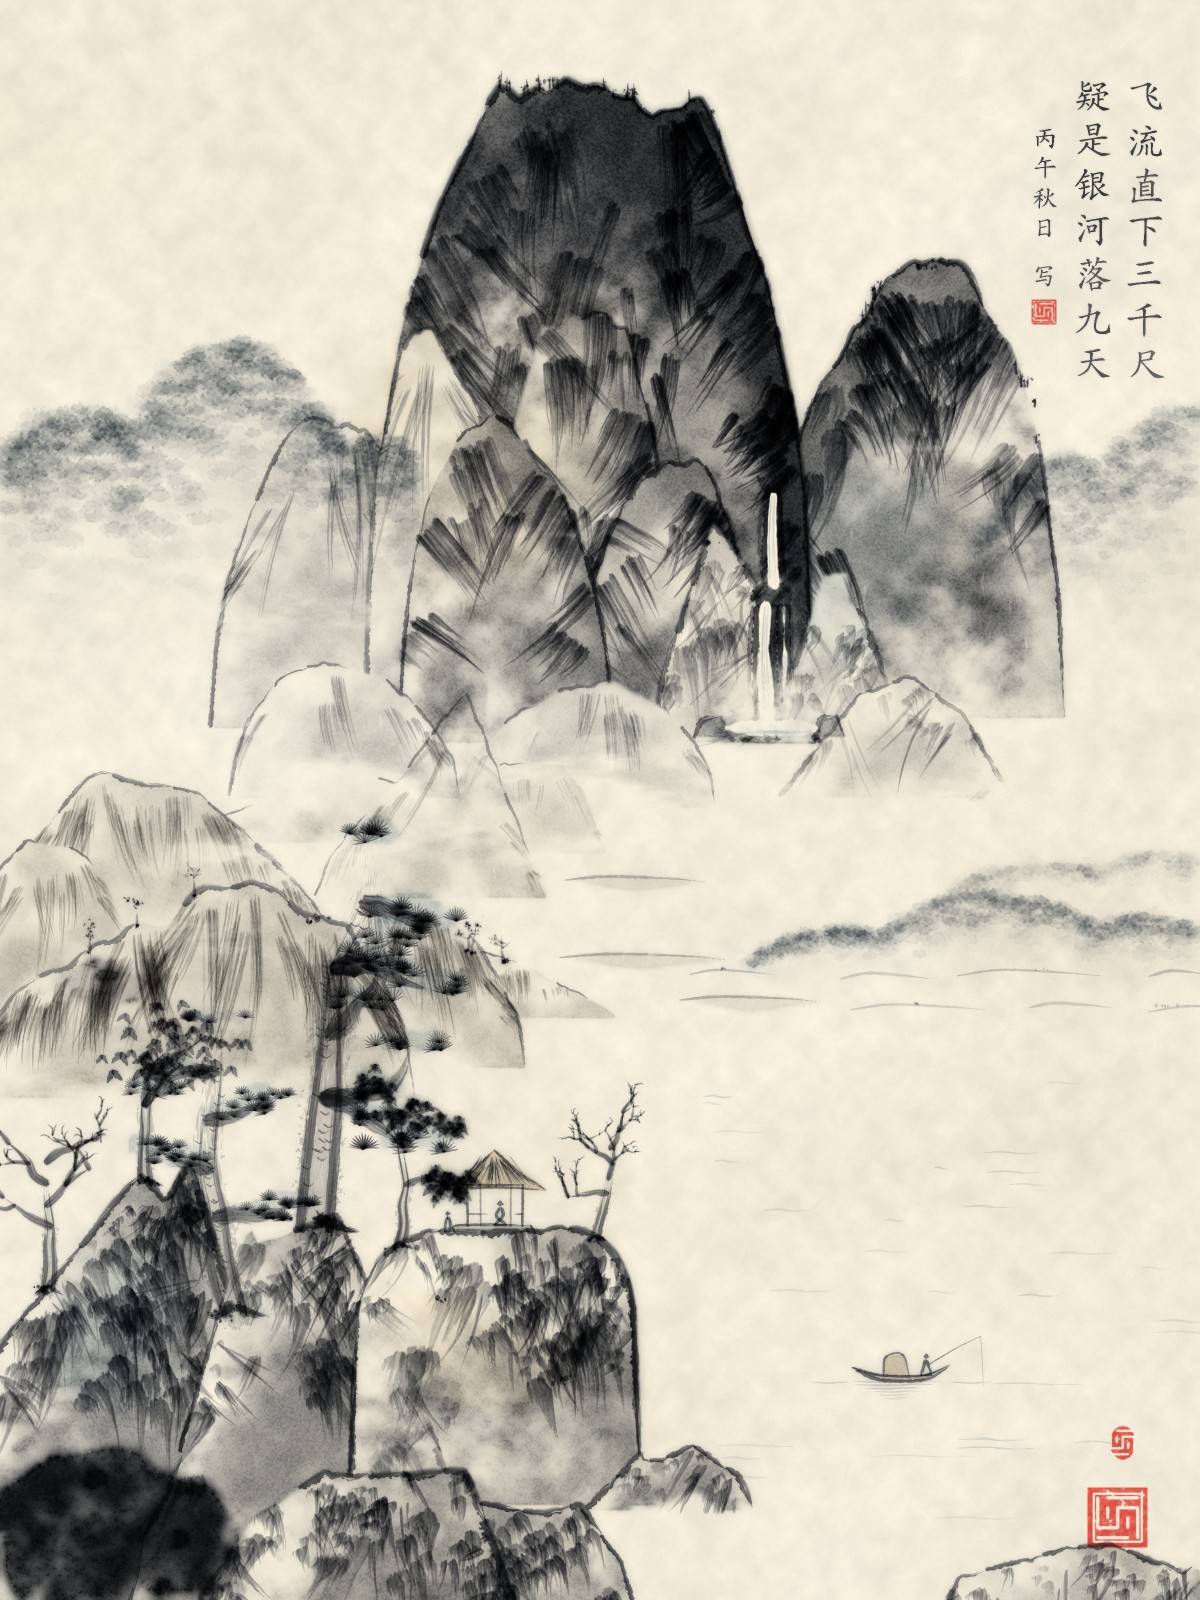
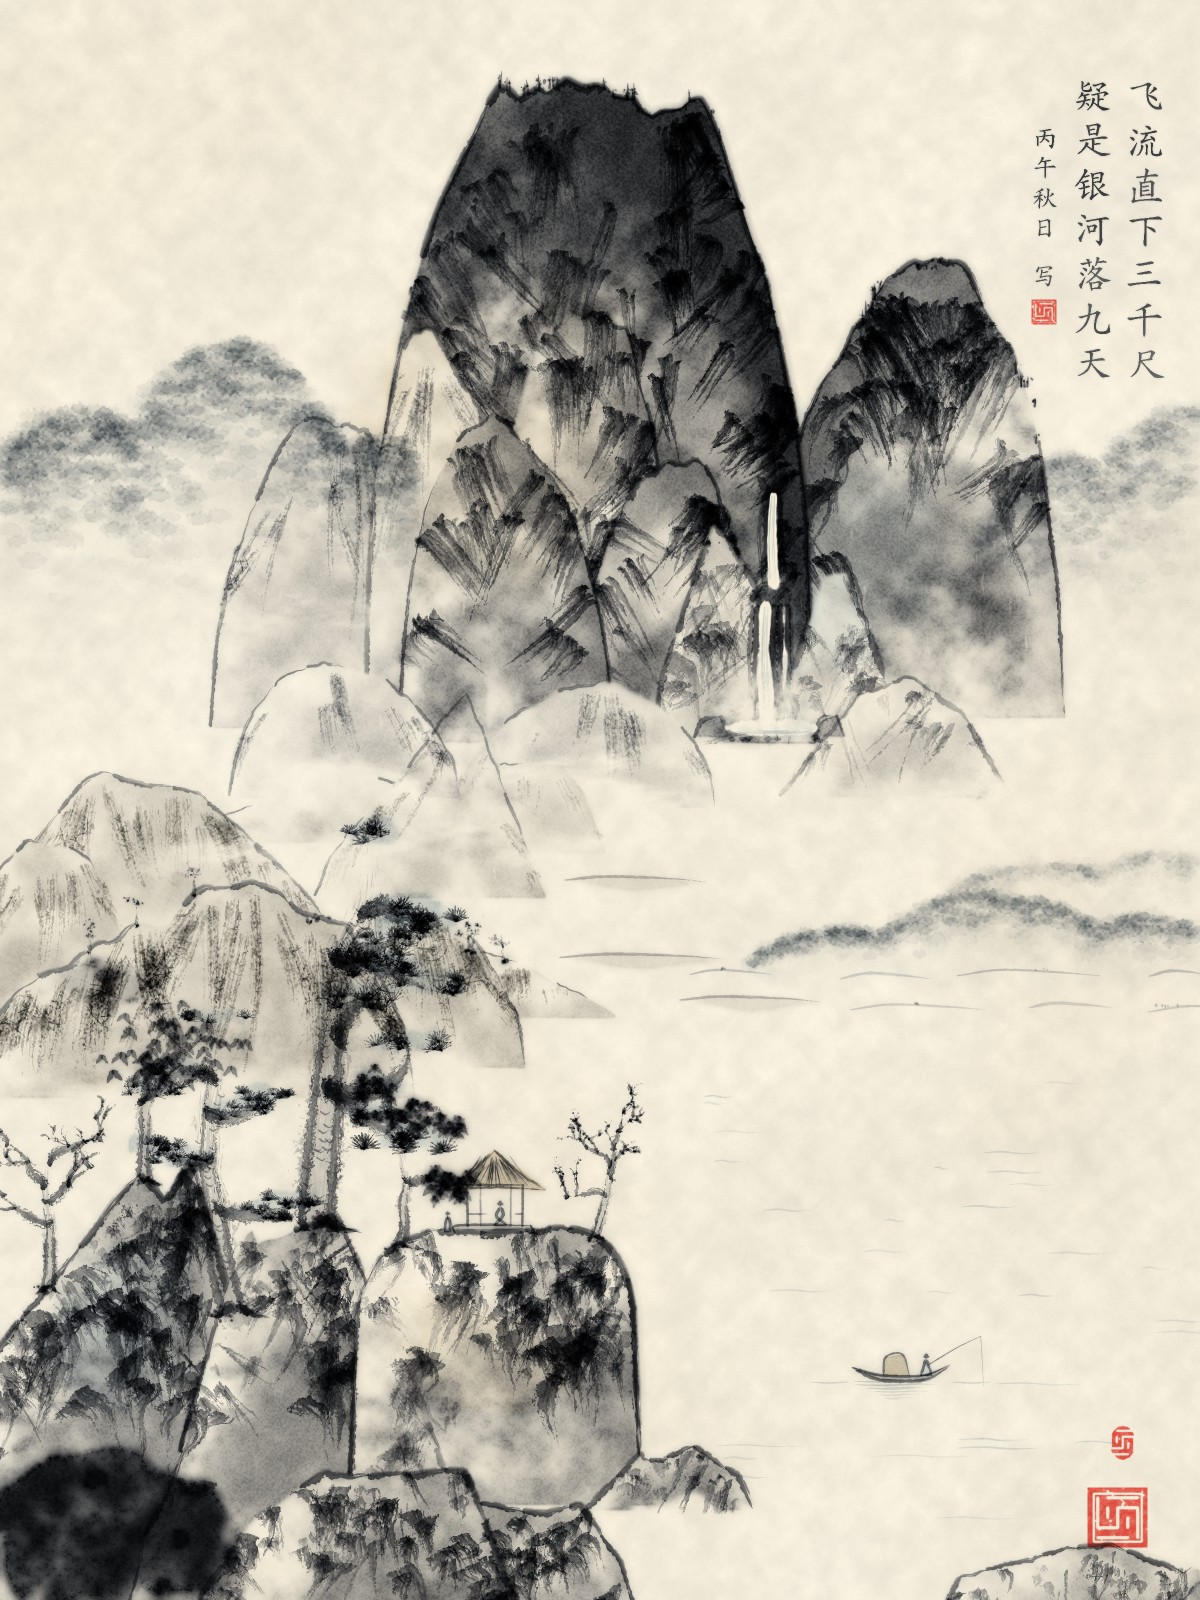
Roughen the bristle brush so ink sits in the paper.
Wet strokes feather along fibre ridges with a darker rim; dry strokes break into scratches. Keep the classic stroke as the default, and keep side-tip streaks, flying white, ink depletion, and turn splay.

diff --git a/inkwash-engine/inkwash/brush2.py b/inkwash-engine/inkwash/brush2.py
@@ -52,14 +52,14 @@ def smooth1d(x, sig):
 
 
 ENTRY = {  # (start_w, ramp, cap, pool)   cap: 0 尖 / 1 圆头
-    'cang': (0.85, 0.10, 1.0, 0.55),    # 藏锋：逆入回转，圆钝饱满，起笔略重
+    'cang': (0.94, 0.11, 0.62, 0.75),   # 藏锋：逆入，钝跟而不是正圆头，起笔积墨
     'lu': (0.08, 0.16, 0.0, 0.0),       # 露锋：尖入，斜切
     None: (None, None, 0.35, 0.15),
 }
 EXIT = {   # (end_w, ramp, cap, pool, swell)
-    'hui': (0.75, 0.10, 1.0, 0.5, 1.0),   # 回锋：收笔回转，圆钝
-    'tip': (0.03, 0.38, 0.0, 0.0, 1.0),   # 出锋：笔毛收拢成尖
-    'dun': (1.0, 0.14, 1.35, 0.9, 1.28),   # 顿笔：收笔按下，略鼓、积墨
+    'hui': (0.80, 0.13, 0.78, 0.62, 1.10),  # 回锋：收笔回转，略鼓、不收尖
+    'tip': (0.03, 0.38, 0.0, 0.0, 1.0),     # 出锋：笔毛收拢成尖
+    'dun': (0.55, 0.11, 0.42, 1.45, 2.05),  # 顿笔：短促按下成结，末端略提
     None: (None, None, 0.25, 0.1, 1.0),
 }
 
@@ -83,12 +83,19 @@ def width_profile(u, s, w, rng, entry, exit, taper, start_w, end_w, wobble, pres
         prof = np.where(u < a, sw + (1 - sw) * np.sin(0.5 * np.pi * np.clip(u / a, 0, 1)), prof)
     if r > 0:
         t = np.clip((1 - u) / r, 0, 1)
-        if swell > 1:
+        if exit == 'dun':
+            # 顿笔：收笔前按下成结，末端略提，避免收成圆棒
+            x = 1.0 - t
+            hump = np.sin(np.pi * np.clip(x / 0.74, 0, 1)) ** 0.85
+            lift = np.clip((x - 0.58) / 0.42, 0, 1) ** 1.15
+            prof = prof * np.where(u > 1 - r, (1 + (swell - 1) * hump) * (1 - 0.42 * lift), 1.0)
+        elif swell > 1:
             prof = prof * np.where(u > 1 - r, 1 + (swell - 1) * np.sin(np.pi * 0.5 * (1 - t)) ** 1.5, 1.0)
         else:
             prof = prof * np.where(u > 1 - r, ew + (1 - ew) * t ** 0.75, 1.0)
     p = _resolve(pressure, u)
-    prof = prof * np.maximum(p, 0.05) ** 0.8
+    # 提按：压力对半宽更敏感，竖画的粗细才读得出来（p=0.85→约 0.82，p=1.25→约 1.31）
+    prof = prof * np.maximum(p, 0.05) ** 1.28
     if wobble > 0:
         prof = prof * (1 + wobble * (noise1d(len(u), max(8, 40 / step), rng) - 0.5) * 2)
     pool = np.zeros_like(u)
@@ -131,6 +138,31 @@ def make_bristles(nb, tip, rng, load, rough, bristle):
     return dict(o=o, load0=load0, rate=rate, jit=jit, thr=thr, cid=cid, nc=nc)
 
 
+def _gesture(P, s, nrm, W, L, w, entry, exit, wobble, tip, rng):
+    """藏锋/回锋的侧向回转、顿笔笔肚偏压，以及沿法向的轻微手抖。位移相对笔宽很小。"""
+    d = np.zeros_like(P)
+    side = 1.0 if rng.random() < 0.5 else -1.0
+    if entry == 'cang':
+        sig = max(0.95 * w, 5.0)
+        bell = np.exp(-0.5 * ((s + 0.40 * w) / sig) ** 2)
+        d += nrm * (side * 1.25 * float(W[0]) * bell)[:, None]
+    if exit == 'hui':
+        sig = max(0.90 * w, 5.0)
+        bell = np.exp(-0.5 * ((s - (L + 0.15 * w)) / sig) ** 2)
+        d += nrm * (-side * 1.20 * float(W[-1]) * bell)[:, None]
+    if exit == 'dun':
+        sig = max(0.55 * w, 3.5)
+        bell = np.exp(-0.5 * ((s - (L - 0.02 * w)) / sig) ** 2)
+        d += nrm * (side * 0.38 * w * bell)[:, None]
+    if wobble > 0 and len(s) > 4:
+        cell = max(18.0, 0.22 * max(L, 1.0))
+        trem = (noise1d(len(s), cell, rng) - 0.5) * 2.0
+        trem2 = (noise1d(len(s), max(8.0, cell * 0.38), rng) - 0.5) * 2.0
+        amp = wobble * max(w, 1.0) * (1.15 if tip == 'zhong' else 0.42)
+        d += nrm * ((amp * trem + 0.35 * amp * trem2))[:, None]
+    return P + d
+
+
 def bristle_stroke(layer, pts, w, ink=0.85, pig=None, t0=0.0, dur=0.6, tip='zhong', load=1.0, dry=0.15, wet=0.5,
                    pressure=None, entry=None, exit=None, pauses=(), splay=0.35, skew=None, nb=None, bleed=None,
                    taper=(0.12, 0.35), start_w=0.45, end_w=0.05, rough=0.22, wobble=0.10, step=None, bristle=1.0,
@@ -168,6 +200,8 @@ def bristle_stroke(layer, pts, w, ink=0.85, pig=None, t0=0.0, dur=0.6, tip='zhon
     ext = lambda a: np.r_[np.full(n0, a[0]), a, np.full(n1, a[-1])]  # noqa: E731
     capd = np.r_[e0, np.zeros(len(s)), e1]                     # distance beyond the path end
     s, u, W, pl, p, kap = np.r_[-e0, s, L + e1], ext(u), ext(W), ext(pl), ext(p), ext(kap)
+    # 回转加在含笔头的整条路径上，藏锋/回锋的帽才跟着偏，而不是在直线帽之后才拐
+    P = _gesture(P, s, nrm, W, L, w, entry, exit, wobble, tip, rng)
     M = len(s)
     # ---- bristles
     if nb is None:
@@ -184,8 +218,21 @@ def bristle_stroke(layer, pts, w, ink=0.85, pig=None, t0=0.0, dur=0.6, tip='zhon
     gap = rng.normal(0, 1, (nb, 1)) * spl[None, :] * 0.4 * outer
     wander = (0.7 * K.noise_rows(nc, s, rng.uniform(25, 70, nc), rng)[cid]
               + 0.3 * K.noise_rows(nb, s, rng.uniform(15, 40, nb), rng) - 0.5) * 2
-    wj = 1 + 0.07 * (2 * K.noise_rows(nc, s, rng.uniform(15, 45, nc), rng)[cid] - 1)    # per-clump width jitter
-    off = W[None, :] * (o * fan * wj + gap + B['jit'][:, None] * 0.4 * wander)
+    # 每根毛的径向到达不同：外缘毛有的探出、有的够不着，轮廓不是一条矢量线
+    reach = rng.uniform(0.76, 1.24, (nb, 1))
+    abs_o = np.abs(B['o'])
+    jscale = (0.20 + 0.22 * min(dry, 1.15)) * (1.0 - 0.32 * min(wet, 1.0))
+    wj = np.clip(1 + jscale * (0.30 + 0.70 * abs_o)[:, None]
+                 * (2 * K.noise_rows(nc, s, rng.uniform(10, 32, nc), rng)[cid] - 1), 0.64, 1.42)
+    # 纤维尺度的边缘毛刺。侧锋只让笔肚一侧毛，笔尖侧保持较齐
+    chatter = (K.noise_rows(nb, s, rng.uniform(2.6, 6.0, nb), rng) - 0.5) * 2
+    if tip == 'ce':
+        fringe = np.clip((B['o'] + 0.05) / 1.05, 0, 1)
+    else:
+        fringe = np.clip((abs_o - 0.12) / 0.88, 0, 1)
+    poke_amp = (0.40 + 0.32 * min(dry, 1.15)) * (1.0 - 0.40 * min(wet, 1.0))
+    poke = np.clip(np.sign(B['o'])[:, None] * fringe[:, None] * poke_amp * chatter, -0.46, 0.46)
+    off = W[None, :] * (o * reach * fan * wj + gap + B['jit'][:, None] * 0.4 * wander + poke)
     al = o * W[None, :] * skew
     X = P[None, :, 0] + nrm[None, :, 0] * off + tan[None, :, 0] * al
     Y = P[None, :, 1] + nrm[None, :, 1] * off + tan[None, :, 1] * al
@@ -200,7 +247,13 @@ def bristle_stroke(layer, pts, w, ink=0.85, pig=None, t0=0.0, dur=0.6, tip='zhon
         + (K.noise_rows(nb, s, rng.uniform(16, 40, nb), rng) - 0.5) * 0.12
     act = smoothstep(B['thr'][:, None] - 0.04, B['thr'][:, None] + 0.04, r + skip * min(1.0, 0.3 + dry))
     # ---- ends: cap shape (round heads) + staggered bristle ends for 出锋 / 露锋
-    ecap = np.sqrt(np.clip(1 - o * o, 0, 1)) * (0.8 + 0.25 * rng.random((nb, 1))) * rng.uniform(0.7, 1.3, nc)[cid][:, None]
+    ecap = np.sqrt(np.clip(1 - o * o, 0, 1)) * (0.55 + 0.7 * rng.random((nb, 1))) * rng.uniform(0.7, 1.35, nc)[cid][:, None]
+    if entry == 'cang':
+        ecap = (0.78 + 0.28 * rng.random((nb, 1))) * (1.0 - 0.22 * o * o)   # 钝跟，少出飞丝
+    if exit == 'hui':
+        ecap = (0.70 + 0.40 * rng.random((nb, 1))) * (1.0 - 0.18 * o * o)
+    if exit == 'dun':
+        ecap = (0.55 + 0.55 * rng.random((nb, 1))) * (1.0 - 0.12 * np.abs(o))
     lim0, lim1 = ecap * ce0, ecap * ce1
     act = act * (np.where(capd[None, :] > 0, (np.arange(M) < n0)[None, :] * (capd[None, :] <= lim0)
                           + (np.arange(M) >= M - n1)[None, :] * (capd[None, :] <= lim1), 1.0))
@@ -209,15 +262,68 @@ def bristle_stroke(layer, pts, w, ink=0.85, pig=None, t0=0.0, dur=0.6, tip='zhon
         act = act * (s[None, :] <= cut)
     if entry == 'lu':
         act = act * (s[None, :] >= (o + 1) * 0.5 * 0.35 * ENTRY['lu'][1] * L)
-    a = act * (2 * W[None, :] / nb) * st * rng.uniform(0.7, 1.3, (nb, 1))     # hair thickness
+    # 外缘毛更细、粗细差更大；湿笔少收一点，好让渗化把它们连成羽边
+    thick = rng.uniform(0.38, 1.55, (nb, 1)) * (1.18 - 0.62 * np.abs(o) * (0.30 + 0.70 * min(dry, 1.15)))
+    a = act * (2 * W[None, :] / nb) * st * thick
+    dotish = L < max(2.8 * w, 16.0)
+    fray = 1.0
+    if dotish:
+        # 点：半径差很大，外缘毛有的缺、有的甩出去，不再是椭圆
+        rad = rng.uniform(0.40, 1.58, (nb, 1))
+        rad = np.where(rng.random((nb, 1)) < 0.16, rad * 1.45, rad)
+        off = off * rad + rng.normal(0, 0.20 * max(w, 1.0), (nb, 1))
+        al = al * rng.uniform(0.45, 1.45, (nb, 1)) + rng.normal(0, 0.26 * max(w, 1.0), (nb, 1))
+        r = r * rng.uniform(0.62, 1.28, (nb, 1))
+        rim = np.abs(o) > 0.50
+        a = a * np.where(rim, rng.uniform(0.12, 1.05, (nb, 1)), 1.0)
+        X = P[None, :, 0] + nrm[None, :, 0] * off + tan[None, :, 0] * al
+        Y = P[None, :, 1] + nrm[None, :, 1] * off + tan[None, :, 1] * al
+        fray = 1.7
+        if bleed is None:
+            bleed = int(min(14, 6 + 0.45 * w))
     # streak tone: each clump carries a little more / less ink along long stretches -> 笔向丝理
     amp = (0.10 + 0.22 * dry) * min(bristle, 2.0) * (1 - 0.55 * min(wet, 1.0))
     stk = 1 + amp * (2 * K.noise_rows(nc, s, rng.uniform(40, 140, nc), rng)[cid] - 1) \
         + 0.5 * amp * (2 * K.noise_rows(nb, s, rng.uniform(20, 60, nb), rng) - 1)
-    return _deposit(layer, X, Y, a, r, u, pl, ink, pig, wet, dry, pool, bleed, t0, dur, ease, w, rng, stk, rough)
+    return _deposit(layer, X, Y, a, r, u, pl, ink, pig, wet, dry, pool, bleed, t0, dur, ease, w, rng, stk, rough, tip, fray)
 
 
-def _deposit(layer, X, Y, a, r, u, pl, ink, pig, wet, dry, pool, bleed, t0, dur, ease, w, rng, stk, rough):
+def _edge_warp(C, Q, U, PL, SK, fib, ne, gr, wet, dry, rough, tip, fray=1.0):
+    """把墨芯轮廓沿法线挪开：干笔咬进纸谷，湿笔顺纤维探出，再叠加高频齿。
+
+    只动外轮廓（邻域平均墨量低的地方），飞白丝留在芯里不被抹掉。
+    d>0 表示向纸面外长（采样点朝墨芯）。"""
+    import cv2
+    gx = cv2.Sobel(C, cv2.CV_32F, 1, 0, ksize=3)
+    gy = cv2.Sobel(C, cv2.CV_32F, 0, 1, ksize=3)
+    gmag = np.sqrt(gx * gx + gy * gy)
+    scale = float(np.percentile(gmag, 90)) + 1e-6
+    edgew = np.clip(gmag / scale, 0, 1)
+    inx = gx / (gmag + 1e-6)
+    iny = gy / (gmag + 1e-6)
+    local = cv2.GaussianBlur(C, (0, 0), 2.2)
+    shell = np.clip(1.15 - local / (float(np.percentile(local, 88)) + 1e-6), 0, 1)
+    k = (0.50 if tip == 'ce' else 1.0) * fray
+    ridge = np.clip(fib - 0.37, 0, 0.22)
+    valley = np.clip(0.40 - fib, 0, 0.22)
+    d = k * (
+        (6.8 + 3.2 * min(dry, 1.1)) * ne * (0.65 + 0.8 * rough)
+        + (1.6 + 9.0 * min(wet, 1.2)) * ridge * 14.0
+        - (2.2 + 9.5 * min(dry, 1.1)) * (1.0 - 0.50 * min(wet, 1.0)) * valley * 12.0
+        + (0.8 + 2.2 * min(wet, 1.0)) * (gr - 0.5) * 3.0
+    )
+    d = np.clip(d, -6.0 - 5.0 * min(dry, 1.0), 3.5 + 9.0 * min(wet, 1.2))
+    d = d * edgew * (0.20 + 0.80 * shell)
+    h, wd = C.shape
+    yy, xx = np.mgrid[0:h, 0:wd].astype(np.float32)
+    mapx = np.clip(xx + inx * d, 0, wd - 1).astype(np.float32)
+    mapy = np.clip(yy + iny * d, 0, h - 1).astype(np.float32)
+    def warp(img):
+        return cv2.remap(img, mapx, mapy, cv2.INTER_LINEAR, borderMode=cv2.BORDER_CONSTANT)
+    return [warp(f) for f in (C, Q, U, PL, SK)]
+
+
+def _deposit(layer, X, Y, a, r, u, pl, ink, pig, wet, dry, pool, bleed, t0, dur, ease, w, rng, stk, rough, tip='zhong', fray=1.0):
     """splat 笔毛 -> 覆盖/墨色/纸纹门限/湿边/渗化 -> 写入 layer.A / Wet / T。"""
     import cv2
     from . import brush2_ink as K
@@ -226,8 +332,9 @@ def _deposit(layer, X, Y, a, r, u, pl, ink, pig, wet, dry, pool, bleed, t0, dur,
     keep = a > 1e-5
     if not keep.any():
         return
-    sig = 0.45 + 0.018 * w + 0.25 * wet
-    it = int(round(bleed if bleed is not None else min(12 * wet ** 1.1, 1 + 1.0 * w)))
+    # 少模糊：边缘的毛刺要留下来。湿笔的羽化交给 capillary，不靠大 sigma 涂匀
+    sig = 0.30 + 0.008 * w + 0.05 * min(float(wet), 1.0)
+    it = int(round(bleed if bleed is not None else min(8.0 * wet ** 1.05 + 1.2 * wet, 2.0 + 0.55 * w)))
     pad = int(3 * sig + it + 3)
     xs, ys = X[keep], Y[keep]
     x0 = int(max(0, math.floor(xs.min()) - pad))
@@ -246,29 +353,47 @@ def _deposit(layer, X, Y, a, r, u, pl, ink, pig, wet, dry, pool, bleed, t0, dur,
     C, Q, U, PL, SK = [cv2.GaussianBlur(f, (0, 0), sig) for f in (C, Q, U, PL, SK)]
     fib = cv.fiber[y0:y1, x0:x1]
     gr = np.clip(0.5 + 0.35 * cv.nz_gran[y0:y1, x0:x1], 0, 1)
-    cov = 1 - np.exp(-2.2 * C)
-    # edge meets paper: threshold soft coverage against fibre + edge noise -> crisp but fibre-ragged rim
     ne = cv.nz_edge[y0:y1, x0:x1]
-    cov = cov * smoothstep(0.1, 0.45, cov + 0.32 * (fib - 0.5) + 0.2 * ne * (0.5 + rough))
-    rim = np.clip(1 - cov, 0, 1) * (cov > 0.02)
-    cov = cov * (1 - dry * 0.45 * rim ** 1.5 * smoothstep(0.45, 0.75, gr + 0.25 * (fib - 0.5)))   # scratchy dry rim
+    if float(C.max()) > 1e-4:
+        C, Q, U, PL, SK = _edge_warp(C, Q, U, PL, SK, fib, ne, gr, wet, dry, rough, tip, fray)
+    cov0 = 1 - np.exp(-2.35 * C)
+    # 轮廓本身已经按纸纹挪开，这里收成较利的墨芯，好让齿留在深色边上
+    lo = 0.10 + 0.10 * min(dry, 1.0) - 0.04 * min(wet, 1.0)
+    hi = lo + 0.16 + 0.06 * min(dry, 1.0)
+    cov = smoothstep(lo, max(hi, lo + 0.12), cov0)
+    # 干笔：纸谷再啃掉一圈，边沿成擦痕
+    if dry > 0.12:
+        contact = smoothstep(0.30, 0.70, 0.55 * fib + 0.45 * gr)
+        edge_band = smoothstep(0.04, 0.22, cov) * (1.0 - smoothstep(0.55, 0.92, cov))
+        kill = min(dry, 1.2) * (1.0 - 0.65 * min(wet, 1.0)) * edge_band * (1.0 - contact)
+        cov = cov * (1.0 - 0.85 * kill)
     rm = Q / (C + 1e-6)
     pm = PL / (C + 1e-6)
     # dry bristles only touch the high points of the paper (fibres + grain) -> broken, grain-aligned 飞白
     g = 0.55 * fib + 0.45 * gr
-    gate = smoothstep(0.0, 0.3, rm * 1.25 - 0.18 * (1 - g) * (0.3 + dry))
-    tone = ink * (0.5 + 0.5 * np.clip(rm, 0, 1.4)) * (1 + 0.38 * pm) * (SK / (C + 1e-6))
-    gamp = 0.05 + 0.07 * min(wet, 1.0)                    # ink granulation, stronger in wet/pale ink
-    dens = cov * gate * tone * (0.84 + 0.32 * fib) * (1 - gamp + 2 * gamp * gr)
-    if pool * wet > 0:      # wet ink is pushed to the rim while drying -> slightly darker edge line
-        e = np.clip(cov - cv2.GaussianBlur(cov, (0, 0), 1.6 + 0.12 * w), 0, None)
-        dens = dens + ink * pool * wet * 2.6 * e * gate * (0.7 + 0.6 * fib)
-    wm = cov * gate * np.clip(rm, 0, 1.5) * wet * (1 + pm)
+    gate = smoothstep(0.0, 0.28, rm * 1.15 - 0.22 * (1 - g) * (0.25 + dry))
+    tone = ink * (0.50 + 0.50 * np.clip(rm, 0, 1.4)) * (1 + 0.95 * np.clip(pm, 0, 1.5)) * (SK / (C + 1e-6))
+    # 颗粒：淡墨、湿墨里色素结块；焦墨只留一点齿。用未裁剪的颗粒场，结块约 2px
+    pale = float(np.clip(1.20 - 0.42 * min(float(ink), 1.35), 0.45, 1.35))
+    gamp = (0.08 + 0.50 * min(wet, 1.15)) * pale
+    raw = cv2.GaussianBlur(cv.nz_gran[y0:y1, x0:x1], (0, 0), 0.8)
+    speck = np.clip(0.42 + 0.62 * raw, 0.08, 1.85)
+    dens = cov * gate * tone * (0.74 + 0.52 * fib) * ((1.0 - gamp) + gamp * speck)
+    if wet > 0.18:
+        mid = np.clip(cv.nz_mid[y0:y1, x0:x1], -1.3, 1.3)
+        dens = dens * (1.0 + (0.045 + 0.11 * min(wet, 1.0)) * mid)
+    if pool * wet > 0:      # 湿墨干后把颜料推到轮廓上，边线比芯深
+        e = np.clip(cov - cv2.GaussianBlur(cov, (0, 0), 1.05 + 0.05 * w), 0, None)
+        dens = dens + ink * pool * (0.55 + 1.25 * min(wet, 1.2)) * e * gate * (0.60 + 0.75 * fib)
+    wm = cov * gate * np.clip(rm, 0, 1.5) * wet * (1 + 0.65 * pm)
     halo = None
-    if it > 0:
-        sp = K.capillary(wm, fib, gr, it, reach=0.92 + 0.1 * min(wet, 1.0))
+    if it > 0 and wet > 0.04:
+        reach = max(0.28, 0.58 + 0.55 * min(wet, 1.25) - 0.22 * min(dry, 1.0))
+        sp = K.capillary(wm, fib, gr, it, reach=reach)
         halo = np.clip(sp - wm, 0, None)
-        dens = dens + halo * ink * 1.25 * min(1.0, 0.15 + w / 10) * (0.4 + 1.2 * fib)
+        dens = dens + halo * ink * (1.55 + 1.15 * min(wet, 1.0)) * np.clip(fib - 0.30, 0.05, 1.0)
+        tide = np.clip(halo - cv2.GaussianBlur(halo, (0, 0), 0.95), 0, None)
+        dens = dens + ink * max(pool, 0.25) * min(wet, 1.2) * 2.6 * tide * (0.45 + fib)
     dens = dens.astype(np.float32)
     um = U / (C + 1e-6)
     if halo is not None:

diff --git a/inkwash-engine/inkwash/brush2_ink.py b/inkwash-engine/inkwash/brush2_ink.py
@@ -41,13 +41,25 @@ def splat(h, w, xs, ys, weights):
 _K = cv2.getStructuringElement(cv2.MORPH_ELLIPSE, (3, 3))
 
 
+def _smoothstep(e0, e1, x):
+    t = np.clip((x - e0) / (e1 - e0 + 1e-9), 0.0, 1.0)
+    return t * t * (3.0 - 2.0 * t)
+
+
 def capillary(wm, fiber, gran, iters, reach=1.0):
-    """毛细渗化：湿墨沿纸纤维向外爬。每步 3x3 膨胀，再乘以由纤维图决定的传导率(纤维亮处导得远)。
-    返回渗出场 (>=wm)。"""
+    """毛细渗化：湿墨只沿偏亮的纸纤维往外爬成丝，而不是铺一圈均匀光晕。
+
+    纤维图的底约 0.3、纤维脊更高。传导率在脊上才打开，所以膨胀的壳只会留在纤维上，
+    前沿收成羽状毛边。返回渗出场 (>= wm)。"""
     if iters <= 0:
         return wm
-    cond = np.clip(reach * (0.78 + 1.1 * (fiber - 0.45) + 0.25 * (gran - 0.5)), 0.0, 0.95).astype(np.float32)
-    m = wm.copy()
+    ridge = _smoothstep(0.39, 0.52, fiber)
+    grain_ok = np.clip(0.55 + 0.9 * (gran - 0.42), 0.2, 1.25)
+    cond = np.clip(reach * (0.04 + 0.96 * ridge) * grain_ok, 0.0, 0.93).astype(np.float32)
+    m = np.asarray(wm, np.float32).copy()
+    keep = np.float32(0.92)
     for _ in range(int(iters)):
-        np.maximum(m, cv2.dilate(m, _K) * cond, out=m)
+        shell = np.maximum(cv2.dilate(m, _K) - m, 0.0)
+        m += shell * cond * keep
+        keep = np.float32(max(0.55, float(keep) * 0.94))
     return m

diff --git a/inkwash-engine/brushlab/README.md b/inkwash-engine/brushlab/README.md
@@ -66,13 +66,13 @@ python3 shanshui/paint.py --scale 1 --brush bristle --out /tmp/ssb --name shansh
 
 | 笔触 | classic | bristle |
 | --- | --- | --- |
-| w=20, L≈400 中锋 | 12.7 ms | 10.9 ms |
-| w=20, L≈400 侧锋 dry 0.8 | 13.0 ms | 8.6 ms |
-| w=20, L≈400 湿笔 wet 1.0 | 12.6 ms | 12.3 ms |
-| w=3, L≈200 皴 | 2.0 ms | 3.8 ms |
-| w=1.1, L≈70 松针 | 0.65 ms | 1.4 ms |
+| w=20, L≈400 中锋 | 11.6 ms | 12.0 ms |
+| w=20, L≈400 侧锋 dry 0.8 | 11.5 ms | 9.4 ms |
+| w=20, L≈400 湿笔 wet 1.0 | 11.4 ms | 12.2 ms |
+| w=3, L≈200 皴 | 1.8 ms | 4.7 ms |
+| w=1.1, L≈70 松针 | 0.64 ms | 2.0 ms |
 
-整幅山水 (2400×3200) 作画 ≈ 17–18 s（classic 相近）。
+整幅山水 (2400×3200) 作画 ≈ 19 s（classic 相近）。最终试笔页：`sheet_final.jpg`；与 r4 的前后对比：`compare_r4_final.jpg`。
 
 ## 回归验证
 
@@ -81,8 +81,8 @@ python3 shanshui/paint.py --scale 1 --brush bristle --out /tmp/ssb --name shansh
 
 ## 已知局限
 
-- 顿笔收笔仍偏"棒槌"形，缺少顿后提笔的转折小尖。
-- 渗化只按纤维**强度**，没有纤维**方向**场；纤维稀的纸区渗化偏各向同性。
+- 顿笔已是短促的偏侧墨结，但还不是顿后提笔带出的小尖。
+- 渗化沿着 `fiber` 的亮脊爬（`capillary`），没有单独的纤维方向场；脊稀的地方仍然偏短。
 - 自交笔画按加权平均 u 取时间，交叉处动画时刻是平均值而不是"先到者"。
 - 松树树干勾边启用后比经典版柔，飞白边不如经典版锐利；树干填色仍用经典笔触。
 - 笔毛之间没有真实的墨水再分配（湿毛蹭干毛），也没有纸面已有墨对后笔的影响（破墨/积墨的物理交互）。
